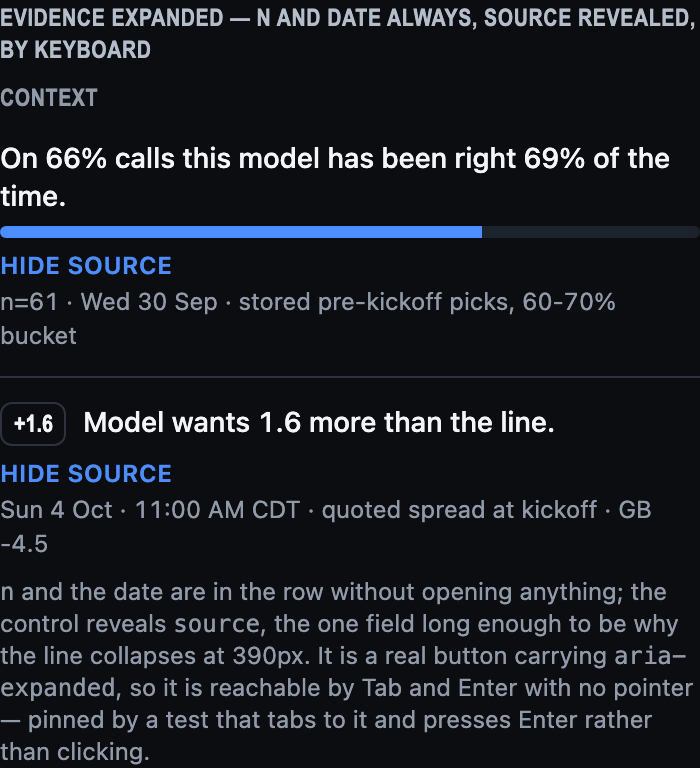
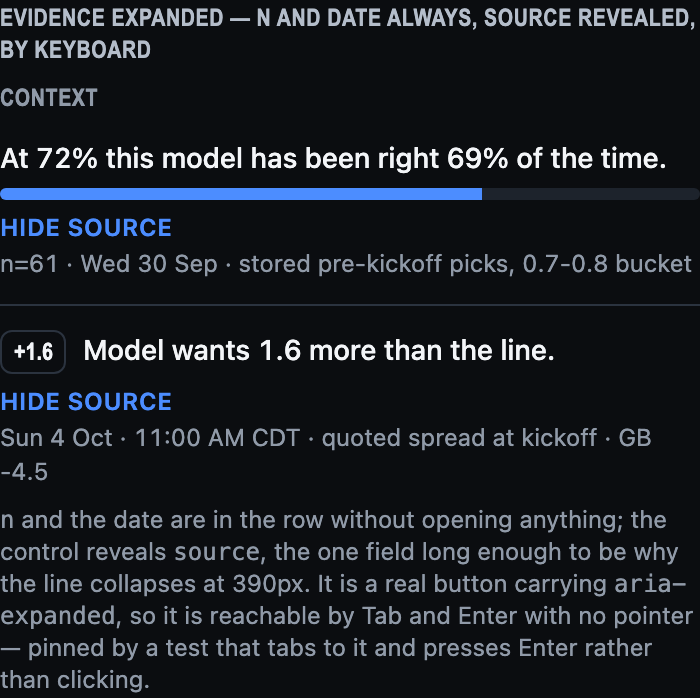
fix(coderabbit): four findings on the Signal contract
4171773474 · the trust bucket was selected from a second number.
`BUCKET.model_prob` was typed `0.66` and labelled `60-70%` while the tile above
the signals says `FIX.homeWinProb` = 0.72. Both were plausible and they
disagreed about the same fixture, in the file whose whole job is that two mocks
cannot disagree. `model_prob` is now `FIX.homeWinProb` and `label` is DERIVED
from it, so the two cannot drift again — the same treatment `valueOf()` gets.

4171773475 · a clipped headline could drop the figure the visual draws.
The docstring claimed a clip "cannot corrupt a figure" because the figures are
not in the text `clipHeadline` rewrites. That was wrong, and this was the exact
defect the split `headline` was built to make impossible: the headline DOES
speak them — that is the honesty rule — and "was right 74% of the time" can sit
at word 14. Clipping to 12 then left a bar at 74% under words that no longer
mentioned 74%. The rule is now: keep the first `max` ORDINARY words plus every
word stating a protected figure, and the caller passes the protected form from
the formatter it is about to draw (`fmt.pct` for a rate, `fmt.signed` minus the
sign for a gap, since a headline says `1.6` where the chip says `+1.6`).

The stated cost: the cap is on the sentence AROUND the figure, so a clipped row
can run past 12 words. That is an adapter copy bug with an adapter fix, and
`data-clipped` is the signal for it. A NEGATION is the case that would genuinely
[…]

diff --git a/packages/predictor-ui/src/components/SignalRows.tsx b/packages/predictor-ui/src/components/SignalRows.tsx
@@ -302,23 +302,59 @@ export function signalIsDrawn(signal: Signal, minN: number = SPEC_MIN_N): boolea
  * prose — and the sample size survives regardless, because `n` is on the evidence
  * line whether or not the headline is clipped. A refused row, by contrast, loses
  * its whole finding because an adapter miscounted a word, which is a worse
- * outcome than a shorter sentence and a `data-clipped="true"` in the DOM. What
- * would have made refusal right is a clip that could corrupt a figure or a
- * negation ("Out: J. Jacobs is **not** projected", clipped to "Out: J. Jacobs
- * is"). It cannot: the figures are not in the text this function rewrites, and a
- * clipped clause is visibly clipped, with the ellipsis and the attribute. **If a
- * future headline format puts its figures inline instead of in `figures`, that
- * argument stops being true and this must become a refusal** — the note is here
- * so the next person reads it before making that change.
+ * outcome than a shorter sentence and a `data-clipped="true"` in the DOM.
+ *
+ * **A drawn figure is PROTECTED, and this was a real defect until it was.**
+ * The first version claimed a clip "cannot corrupt a figure" on the grounds that
+ * the figures are not in the text this function rewrites. That was wrong, and
+ * CodeRabbit review comment 4171773475 caught it: the headline *does* speak them
+ * — that is the whole honesty rule above — and "was right 74% of the time" can
+ * sit at word 14. Clipping to 12 then left a bar at 74% under a sentence that no
+ * longer mentioned 74%: exactly the dishonesty the split `headline` exists to
+ * make impossible, reintroduced by the cap.
+ *
+ * So the rule is now: **keep the first `max` ORDINARY words, plus every word
+ * that states a protected figure, in document order.** The protected form is
+ * passed in by the caller from the figure it is about to draw — this function
+ * does not format, because the two formatters (`fmt.signed` for a gap,
+ * `fmt.pct` for a rate) differ and guessing here would protect the wrong string.
+ *
+ * **What is given up.** A clipped row can exceed `max` words, so the cap is
+ * "12 ordinary words" rather than "12 words", and a headline that names its
+ * figure on every one of forty words stays forty words long. That is an adapter
+ * copy bug rather than something this component can repair, and `data-clipped`
+ * is the signal for it — the fix is the adapter's shorter wording.
+ *
+ * **What would make this a refusal instead: a NEGATION.** "Out: J. Jacobs is
+ * **not** projected" clipped to "Out: J. Jacobs is" inverts the claim, and no
+ * amount of figure-protection helps. None of the four spec §4 signals can produce
+ * one from their own fields — `kind` says which claim a row is making — so it is
+ * not reachable here. The note is here so the next person checks it before
+ * adding a `kind` that can.
  */
 export function clipHeadline(
   text: string,
   max: number = MAX_HEADLINE_WORDS,
+  protectedWords: readonly string[] = [],
 ): { text: string; clipped: boolean } {
   const trimmed = text.trim();
   const words = trimmed.split(/\s+/).filter(Boolean);
   if (words.length <= max) return { text: trimmed, clipped: false };
-  return { text: words.slice(0, max).join(" "), clipped: true };
+  const marks = protectedWords.filter(Boolean).map((w) => w.trim());
+  const protectedIndex = (word: string): boolean => marks.some((m) => word.includes(m));
+  const kept: string[] = [];
+  let ordinary = 0;
+  for (const word of words) {
+    // A protected word is kept wherever it is and does not spend the budget: the
+    // cap is on the sentence AROUND the figure, not on the figure.
+    if (protectedIndex(word)) {
+      kept.push(word);
+      continue;
+    }
+    if (ordinary < max) kept.push(word);
+    ordinary++;
+  }
+  return { text: kept.join(" "), clipped: ordinary > max };
 }
 
 /** The heading a list of rows carries. Plain words and no developer term:
@@ -346,19 +382,25 @@ export interface SignalRowsProps {
 
 /** One row. Not exported, so every path into it goes through `signalIsDrawn`
  *  first and no caller can mount a row the floor has not cleared. */
-function SignalRow({ signal }: { signal: Signal }) {
+function SignalRow({ signal, rowId }: { signal: Signal; rowId: string }) {
   const [open, setOpen] = useState(false);
-  const { text, clipped } = clipHeadline(signal.headline.text);
   const isBar = signal.visual === "reliability_bar";
   const n = signal.n;
   // The count as evidence words. Empty when the row states none, so a label can
   // never read "of null games"; the floor means a bar-drawing row always has one.
   const count = n === null ? "" : `n=${n}`;
   const figure = signalFigure(signal, signal.visual);
+  // Clipped with the figure PROTECTED, and the protected string is the one this
+  // row is about to draw: `fmt.pct` for a rate, `fmt.signed` for a gap. The sign
+  // is dropped from the protected form because a headline says "1.6" where the
+  // chip says "+1.6", and protecting "+1.6" would protect nothing.
+  const drawn = signal.visual === "reliability_bar" ? pct(figure) : signed(figure).replace(/^[+−-]/, "");
+  const { text, clipped } = clipHeadline(signal.headline.text, MAX_HEADLINE_WORDS, [drawn]);
 
   return (
     <li
       data-testid="signal-row"
+      data-row={rowId}
       data-kind={signal.kind}
       data-visual={signal.visual}
       className="flex min-w-0 flex-col gap-1.5 border-t border-pr-rule pt-3 first:border-t-0 first:pt-0"
@@ -478,8 +520,34 @@ export function SignalRows({ signals, title = DEFAULT_SIGNAL_TITLE, minN }: Sign
         {title}
       </h3>
       <ul data-testid="signal-rows" className="flex min-w-0 flex-col gap-3">
-        {drawn.map((signal) => (
-          <SignalRow key={`${signal.game_id}:${signal.kind}`} signal={signal} />
+        {/* The key is `game_id:kind:index`, and the index is in it on purpose.
+         *
+         * Spec §3 carries no row id, and this component does not add one: the
+         * type is the contract and inventing a field no adapter has to populate
+         * would be a field every real payload leaves undefined.
+         *
+         * `game_id:kind` alone is not a key. CodeRabbit review comment
+         * 4171773477 is right that §3 does not make those unique, and two
+         * signals sharing one is a real possibility (two `trust` buckets on one
+         * game is plausible). React would then reuse one `SignalRow`'s
+         * `useState` for both, which is the row's disclosure state showing on
+         * the wrong signal.
+         *
+         * The index's own weakness is named here rather than glossed: a reorder
+         * would carry the open disclosure with the position rather than the
+         * signal. That is accepted because rows render in the order the endpoint
+         * ranked them (see the file header), a reorder between two renders of
+         * the same fixture is not a case this component produces, and the
+         * alternative — a key of `(game_id, kind)` alone — is wrong NOW rather
+         * than wrong in a case that has not happened. What would remove both
+         * costs is an `id` in §3; that is a spec change, so it is reported
+         * rather than taken here. */}
+        {drawn.map((signal, i) => (
+          <SignalRow
+            key={`${signal.game_id}:${signal.kind}:${i}`}
+            signal={signal}
+            rowId={`${signal.game_id}:${signal.kind}:${i}`}
+          />
         ))}
       </ul>
     </section>

diff --git a/packages/predictor-ui/src/components/SignalRows.test.tsx b/packages/predictor-ui/src/components/SignalRows.test.tsx
@@ -109,6 +109,43 @@ describe("1 · renders each visual: chip, bar, headline, evidence", () => {
     render(<SignalRows signals={[trust({ strength: 0.9 }), lineGap({ strength: 0.4 })]} />);
     expect(screen.getAllByTestId("signal-row").map((r) => r.dataset.kind)).toEqual(["trust", "line_gap"]);
   });
+
+  // RED-CHECK: the index dropped from the row key — "1 failed | 37 passed (38)".
+  it("gives two signals that share a game_id and kind DISTINCT row keys", () => {
+    // Spec §3 carries no row id, and it does not make `(game_id, kind)` unique —
+    // two trust buckets on one game is plausible. CodeRabbit review comment
+    // 4171773477 is right that a shared key makes React reuse one `SignalRow`'s
+    // `useState` for both rows, so the first row's open disclosure would appear
+    // on the second. Asserted on the DOM, which is where the collision shows.
+    render(
+      <SignalRows
+        signals={[
+          trust({ headline: { text: "First bucket: right 74% of the time.", figures: { rate: 0.738 } } }),
+          trust({ headline: { text: "Second bucket: right 61% of the time.", figures: { rate: 0.61 } } }),
+        ]}
+      />,
+    );
+    const rows = screen.getAllByTestId("signal-row");
+    expect(rows.map((r) => r.dataset.row)).toEqual(["401671829:trust:0", "401671829:trust:1"]);
+    expect(new Set(rows.map((r) => r.dataset.row)).size).toBe(2);
+  });
+
+  it("each row's disclosure is its own, when two rows share a game_id and kind", async () => {
+    // The behaviour behind the key: opening one row must not open the other.
+    const user = userEvent.setup();
+    render(
+      <SignalRows
+        signals={[
+          trust({ headline: { text: "First bucket: right 74% of the time.", figures: { rate: 0.738 } } }),
+          trust({ headline: { text: "Second bucket: right 61% of the time.", figures: { rate: 0.61 } } }),
+        ]}
+      />,
+    );
+    const toggles = screen.getAllByTestId("signal-evidence-toggle");
+    await user.click(toggles[0]);
+    expect(toggles.map((t) => t.getAttribute("aria-expanded"))).toEqual(["true", "false"]);
+    expect(screen.getAllByTestId("signal-evidence")[1].textContent).not.toContain("stored pre-kickoff");
+  });
 });
 
 describe("2 · renders nothing at all for an empty list", () => {
@@ -251,7 +288,12 @@ describe("5 · a headline over 12 words is clipped by a stated rule", () => {
     );
     const headline = screen.getByTestId("signal-headline");
     expect(headline).toHaveAttribute("data-clipped", "true");
-    expect(headline.textContent!.replace(" …", "").trim().split(/\s+/)).toHaveLength(MAX_HEADLINE_WORDS);
+    const words = headline.textContent!.replace(" …", "").trim().split(/\s+/);
+    // 12 ordinary words, and the rate is a 13th because it is protected — the
+    // stated cost of protecting it, and the reason the cap is on the sentence
+    // around the figure rather than on the figure.
+    expect(words).toHaveLength(MAX_HEADLINE_WORDS + 1);
+    expect(words.filter((w) => w.includes("74%"))).toHaveLength(1);
     // Clipping removes words and never edits a figure: the bar is still 73.8%.
     expect(screen.getByTestId("signal-bar-fill")).toHaveStyle({ width: "73.8%" });
   });
@@ -264,6 +306,46 @@ describe("5 · a headline over 12 words is clipped by a stated rule", () => {
     expect(screen.getByTestId("signal-headline").textContent).toBe(exact);
   });
 
+  // RED-CHECK: the protected-word branch in `clipHeadline` deleted —
+  // "1 failed | 35 passed (36)".
+  it("KEEPS the figure when it sits past the cap, because clipping must not drop it", () => {
+    // The defect CodeRabbit review comment 4171773475 found, as a test. The rate
+    // is at word 14, so a plain 12-word clip leaves a bar at 74% under words that
+    // never said 74% — the honesty rule, broken by the cap that enforces §6.
+    const late = "The model has been right 74% of the time on this bucket of picks across the stored record.";
+    expect(late.trim().split(/\s+/).length).toBeGreaterThan(MAX_HEADLINE_WORDS);
+    render(
+      <SignalRows
+        signals={[trust({ headline: { text: late, figures: { rate: 0.738 } } })]}
+      />,
+    );
+    const headline = screen.getByTestId("signal-headline");
+    expect(headline).toHaveAttribute("data-clipped", "true");
+    expect(headline.textContent).toContain("74%");
+    expect(screen.getByTestId("signal-bar-fill")).toHaveStyle({ width: "73.8%" });
+  });
+
+  it("KEEPS a chip's figure past the cap, and matches the headline's unsigned form", () => {
+    // The protected string is `signed(gap)` with the sign dropped, because the
+    // chip prints "+1.6" and a headline says "1.6". Protecting "+1.6" would
+    // protect nothing and the row would silently lose its number.
+    const late = "Across this season the model has wanted 1.6 more than the market on this fixture.";
+    render(<SignalRows signals={[lineGap({ headline: { text: late, figures: { gap: 1.6 } } })]} />);
+    const headline = screen.getByTestId("signal-headline");
+    expect(headline).toHaveAttribute("data-clipped", "true");
+    expect(headline.textContent).toContain("1.6");
+    expect(screen.getByTestId("signal-delta")).toHaveTextContent("+1.6");
+  });
+
+  it("counts the cap on ordinary words, so a protected one does not spend it", () => {
+    // The stated cost: a clipped row may exceed 12 words, and the cap is on the
+    // sentence around the figure rather than on the figure.
+    const out = clipHeadline("a b c 74% d e f g h i j k l m n", 4, ["74%"]);
+    expect(out.clipped).toBe(true);
+    expect(out.text.split(/\s+/)).toHaveLength(5);
+    expect(out.text).toContain("74%");
+  });
+
   it("clipHeadline, edge by edge", () => {
     // Un-clipped copy comes back byte for byte: only the ends are trimmed, so a
     // headline the adapter spaced deliberately is not rewritten by this file.
@@ -271,6 +353,11 @@ describe("5 · a headline over 12 words is clipped by a stated rule", () => {
     expect(clipHeadline("  a  b  ")).toEqual({ text: "a  b", clipped: false });
     expect(clipHeadline("")).toEqual({ text: "", clipped: false });
     expect(clipHeadline("a b c", 2)).toEqual({ text: "a b", clipped: true });
+    // Protection is opt-in: with nothing protected this is the plain 12-word clip
+    // it has always been.
+    expect(clipHeadline("a b 74% c", 2, ["74%"])).toEqual({ text: "a b 74%", clipped: true });
+    // A protected form that appears nowhere drops nothing and changes nothing.
+    expect(clipHeadline("a b c d", 2, ["99%"])).toEqual({ text: "a b", clipped: true });
     // Whitespace-delimited, so a decimal is one word to a reader.
     expect(clipHeadline("Model margin −6.1 vs line −4.5", 4)).toEqual({
       text: "Model margin −6.1 vs",

diff --git a/packages/predictor-ui/harness/fixture.ts b/packages/predictor-ui/harness/fixture.ts
@@ -147,19 +147,46 @@ export const CATEGORY_KIND: Record<Category, "probability" | "projection"> = {
  * player lists follow, so a signal mock cannot disagree with the tiles about the
  * same game. That is why `gap` is `FIX.edge` and not a retyped `1.6`.
  *
- * The `trust` row's rate is the one figure `FIX` does not already carry — a
+ * The `trust` row's RATE is the one figure `FIX` does not already carry — a
  * historical hit rate is not a property of this fixture — so it is declared here
- * with its own bucket, and the `n` that goes with it, for the same reason
- * `PLAYERS[].bucket` exists.
+ * with the bucket and the `n` that produce it, for the same reason
+ * `PLAYERS[].bucket` exists. The bucket's own `model_prob` is NOT declared: it
+ * is `FIX.homeWinProb`, because the probability is what selects the bucket and a
+ * second copy of it is how the mock ended up claiming 66% under a tile that
+ * said 72%.
  *
  * `BUCKET` is exported because the below-floor case is this row with a smaller
  * `n` and nothing else changed: a state of one fixture, not a second fixture.
  */
 export const BUCKET = {
-  /** "at 60-70%" in the spec's own wording: the bucket this model's pick sits in. */
-  label: "60-70%",
-  /** The model's own probability for this fixture, which is what picks the bucket. */
-  model_prob: 0.66,
+  /**
+   * The model's own probability for this fixture — which is what SELECTS the
+   * bucket, so it is `FIX.homeWinProb` and not a second number.
+   *
+   * A first draft put `0.66` here and labelled the bucket `60-70%` while the
+   * tile above the signals says 72%. Both were "plausible" and they disagreed
+   * about the same fixture, which is the one thing this file exists to prevent:
+   * a reader comparing the two rows would find the mock claiming the model sits
+   * in the 60s when the tile says it does not. CodeRabbit found it
+   * (review comment 4171773474), and it was right.
+   */
+  model_prob: FIX.homeWinProb,
+  /**
+   * The bucket that probability falls in, DERIVED from it.
+   *
+   * Derived rather than typed so the two cannot drift again: the bounds are the
+   * spec's own `n >= 30` bucket language read as ranges, and the edges are the
+   * same ones `NFL_Predictor`'s `_TD_CONFIDENCE_BUCKETS` and `CFB_Predictor`'s
+   * `_td_confidence_buckets` ship (the spike's open question 3 measured against
+   * exactly those bounds).
+   */
+  // `toFixed(1)`, not `/ 10`: `0.8` from `(0.7 + 1) / 10` is `0.7999999999999999`,
+  // and a bucket label is a word on the page, not a float. Rounding here is what
+  // keeps the derived label equal to the one a test recomputes from `FIX`.
+  label: (() => {
+    const low = Math.floor(FIX.homeWinProb * 10);
+    return `${(low / 10).toFixed(1)}-${((low + 1) / 10).toFixed(1)}`;
+  })(),
   /** Hits over settled picks in that bucket. 5 of the 6 F1 buckets in the spike clear 30. */
   hits: 42,
   n: 61,
@@ -177,7 +204,7 @@ export const SIGNALS: Signal[] = [
     headline: {
       // 12 words exactly, so the harness shows the rule's own boundary and the
       // clipped case beside it is visibly a different thing.
-      text: `On ${pctWord(BUCKET.model_prob)} calls this model has been right ${pctWord(trustRate)} of the time.`,
+      text: `At ${pctWord(BUCKET.model_prob)} this model has been right ${pctWord(trustRate)} of the time.`,
       // The figures the visual draws, plus the ones the headline only speaks.
       // `rate` is what the bar's width is; `model_prob` is not drawn by any
       // visual and exists so the headline's own number is in the payload.
@@ -216,7 +243,7 @@ export const SIGNALS: Signal[] = [
 export const LONG_HEADLINE_SIGNAL: Signal = {
   ...SIGNALS[0],
   headline: {
-    text: `On ${pctWord(BUCKET.model_prob)} calls this model has been right ${pctWord(trustRate)} of the time across every stored pre-kickoff pick in this bucket to date.`,
+    text: `At ${pctWord(BUCKET.model_prob)} this model has been right ${pctWord(trustRate)} of the time across every stored pre-kickoff pick in this bucket to date.`,
     figures: SIGNALS[0].headline.figures,
   },
 };
@@ -227,7 +254,7 @@ export const BELOW_FLOOR_SIGNAL: Signal = {
   ...SIGNALS[0],
   n: 12,
   headline: {
-    text: `On ${pctWord(BUCKET.model_prob)} calls this model has been right ${pctWord(8 / 12)} of the time.`,
+    text: `At ${pctWord(BUCKET.model_prob)} this model has been right ${pctWord(8 / 12)} of the time.`,
     figures: { rate: 8 / 12, model_prob: BUCKET.model_prob },
   },
 };

diff --git a/packages/predictor-ui/harness/insight.tsx b/packages/predictor-ui/harness/insight.tsx
@@ -651,8 +651,10 @@ function App() {
                 nothing". */}
             <SignalRows signals={[BELOW_FLOOR_SIGNAL]} />
             <p className="max-w-[70ch] text-xs text-pr-text-faint">
-              ↑ nothing rendered — the same <code>n = {BELOW_FLOOR_SIGNAL.n}</code> row on the left of
-              the case above would have been {Math.round((BELOW_FLOOR_SIGNAL.headline.figures.rate) * 100)}%.
+              ↑ nothing rendered. The populated case above with{" "}
+              <code>n = {BELOW_FLOOR_SIGNAL.n}</code> instead of {BUCKET.n} would have drawn a{" "}
+              {Math.round(BELOW_FLOOR_SIGNAL.headline.figures.rate * 100)}% bar under 12 games — which is
+              the rate from a handful of games that spec §4 forbids.
             </p>
           </div>
 
@@ -677,10 +679,13 @@ function App() {
             <InstantHead>A headline over {MAX_HEADLINE_WORDS} words — clipped, not refused</InstantHead>
             <SignalRows signals={[LONG_HEADLINE_SIGNAL]} />
             <p className="max-w-[70ch] text-xs text-pr-text-faint">
-              Clipping removes words and never a figure: the bar below is still the same{" "}
-              {Math.round(trustRate * 100)}% the populated case draws, and the n is on the evidence line
-              whichever way the headline falls. A refused row would lose the whole finding over a
-              miscounted word, which is worse than a shorter sentence.
+              Clipping keeps the first 12 ordinary words PLUS every word stating a drawn figure, so
+              the {Math.round(trustRate * 100)}% survives and the bar below still draws the same{" "}
+              {Math.round(trustRate * 100)}% the populated case does. A plain 12-word clip would cut
+              here and leave a bar under words that no longer mention it — the honesty rule broken by
+              the cap that enforces §6. The cap is therefore on the sentence AROUND the figure: a
+              clipped row can run past 12 words, and the fix for that is the adapter&apos;s shorter
+              wording, not a longer row.
             </p>
           </div>
 

diff --git a/packages/predictor-ui/harness/fixture.test.ts b/packages/predictor-ui/harness/fixture.test.ts
@@ -156,6 +156,21 @@ describe("a signal's figures come from the one fixture", () => {
     expect(gap.headline.figures.line).toBe(FIX.spreadLine);
   });
 
+  it("selects the bucket from FIX's own probability, never a second number", () => {
+    // CodeRabbit review comment 4171773474. The first draft typed `model_prob:
+    // 0.66` beside a tile that says 72% — both plausible, and the mock claiming
+    // the model sits in the 60s while the tile above it said 70%. That is exactly
+    // the drift this file exists to end, found in a file written to prevent it.
+    expect(BUCKET.model_prob).toBe(FIX.homeWinProb);
+    // And the label is DERIVED from that, not typed beside it.
+    const low = Math.floor(FIX.homeWinProb * 10);
+    expect(BUCKET.label).toBe(`${(low / 10).toFixed(1)}-${((low + 1) / 10).toFixed(1)}`);
+    const trust = SIGNALS.find((s) => s.kind === "trust")!;
+    expect(trust.source).toContain(BUCKET.label);
+    // The headline's own probability is the tile's, so the two agree on the page.
+    expect(trust.headline.text).toContain(`${Math.round(FIX.homeWinProb * 100)}%`);
+  });
+
   it("states the trust rate as its own bucket's hits over n, computed once", () => {
     expect(trustRate).toBe(BUCKET.hits / BUCKET.n);
     const trust = SIGNALS.find((s) => s.kind === "trust")!;
